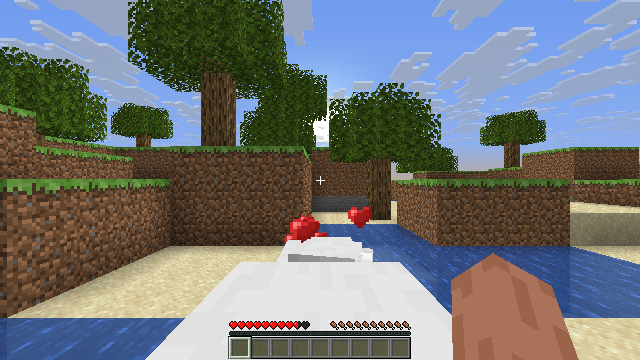
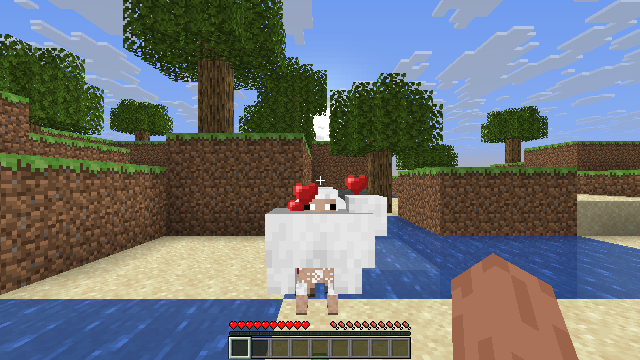
the animals' own peace — the target scan the monster kinds gate (the targetSelector the zombie's registerGoals fills the sheep's/cow's/pig's own registerGoals never fills — the NearestAttackableTargetGoal prio-2 walk the zombie_262 dump speaks, the animals' own prio walk the sheep_262 dump keeps no 

diff --git a/crates/mc-client/src/mob.rs b/crates/mc-client/src/mob.rs
@@ -398,6 +398,22 @@ impl MobKind {
         }
     }
 
+    /// THE MONSTER CHAIN'S OWN WORD (the class hierarchy the javap
+    /// dumps keep: Zombie → Monster → PathfinderMob; the animals'
+    /// own chain Sheep/Cow/Pig → Animal → AgeableMob → PathfinderMob
+    /// never reaches the Monster branch). The targetSelector the
+    /// zombie's own registerGoals fills (zombie_262.txt: getfield
+    /// targetSelector, `new NearestAttackableTargetGoal(Mob, Class, Z)`
+    /// the prio-2 walk three arms speak) the animals' registerGoals
+    /// never touches — the sheep's own prio walk the dump keeps
+    /// (0 float, 1 panic, 2 breed, 3 tempt, 4 follow, 5 eat, 6 stroll,
+    /// 7 look, 8 look-around — every addGoal the goalSelector's own
+    /// field rides) speaks no target goal at all. The scan the monster
+    /// kinds gate; the animals the goal-else chain's own peace keeps.
+    pub fn is_monster(self) -> bool {
+        matches!(self, MobKind::Zombie)
+    }
+
     /// THE VOICE TABLE (the vanilla rows the four drawn kinds speak —
     /// each the class's own `getAmbientSound` / `getHurtSound` /
     /// `getDeathSound` return: the zombie's groan, the sheep's baa,
@@ -1018,12 +1034,22 @@ impl Zombie {
         self.move_speed_modifier = 1.0;
 
         // THE TARGET SCAN (NearestAttackableTargetGoal(Player, mustSee)
-        // — the FOLLOW_RANGE 35 ring, the dead never retarget)
-        let target = player.filter(|p| !p.dead).filter(|p| {
-            let dx = p.x - self.x;
-            let dz = p.z - self.z;
-            dx * dx + dz * dz <= ZOMBIE_FOLLOW_RANGE * ZOMBIE_FOLLOW_RANGE
-        });
+        // — the FOLLOW_RANGE 35 ring, the dead never retarget). THE
+        // ANIMALS' OWN PEACE: the targetSelector the zombie's
+        // registerGoals fills the sheep's/cow's/pig's own registerGoals
+        // never fills — the scan the monster kinds gate, the animals
+        // the goal-else chain's own rest keeps (the fed sheep the
+        // in-range player no longer charges — the empty targetSelector
+        // the animal chain speaks)
+        let target = if self.kind.is_monster() {
+            player.filter(|p| !p.dead).filter(|p| {
+                let dx = p.x - self.x;
+                let dz = p.z - self.z;
+                dx * dx + dz * dz <= ZOMBIE_FOLLOW_RANGE * ZOMBIE_FOLLOW_RANGE
+            })
+        } else {
+            None
+        };
 
         if let Some(p) = target {
             // ZOMBIEATTACKGOAL (prio 3): the canUse re-check rides the
@@ -1177,13 +1203,18 @@ impl Zombie {
         }
 
         // THE BURN ROLL (Mob.aiStep's BURN_IN_DAYLIGHT branch ->
-        // burnUndead -> isSunBurnTick, the short-circuit order the
-        // bytecode speaks: the track gate, the water gate, the light
+        // shouldBurnInDay -> burnUndead -> isSunBurnTick, the
+        // short-circuit order the bytecode speaks: THE KIND'S OWN WORD
+        // first — the Mob base speaks false, the undead classes'
+        // override the true the sun's brand rides (the animals the
+        // base's own false keeps: the noon sky the sheep never
+        // brands), then the track gate, the water gate, the light
         // gate, THE DRAW, the sky gate — the helmet branch never fires
         // on this lane's bare-headed zombie, so the hit ignites):
         // igniteForSeconds(8.0) = remainingFireTicks = max(remaining,
         // 160).
-        if crate::timeline::monsters_burn(day_time)
+        if self.kind.is_monster()
+            && crate::timeline::monsters_burn(day_time)
             && !self.in_water(world)
             && self.burn_light_gate(world, day_time)
             && self.rng.next_f32() * BURN_ROLL_SCALE
@@ -3677,6 +3708,113 @@ mod tests {
             met.breed_love_time, 60,
             "the met court the gate's own count keeps"
         );
+    }
+
+    /// THE ANIMALS' OWN PEACE (the registerGoals dumps' own verdict):
+    /// the targetSelector the zombie's registerGoals fills
+    /// (NearestAttackableTargetGoal the prio-2 walk speaks) the
+    /// animals' registerGoals never fills — the scan the monster
+    /// kinds gate: the melee-ring player the sheep/cow/pig never
+    /// targets, never charges, never hits (the aggressive arms the
+    /// monster's own word keeps lowered), the zombie the same
+    /// staging the chase's own yaw answers.
+    #[test]
+    fn the_animals_own_peace_gates_the_target_scan() {
+        let world = flat_world();
+        // the is_monster table (the class chain the dumps keep)
+        assert!(MobKind::Zombie.is_monster());
+        assert!(!MobKind::Sheep.is_monster());
+        assert!(!MobKind::Cow.is_monster());
+        assert!(!MobKind::Pig.is_monster());
+
+        // the melee-ring player the monster's scan answers — the
+        // animals the same staging the peace keeps over the whole
+        // walk (no hit, no raised arms; the stroll/look rest the
+        // goal-else chain keeps, the 120-gate's own rolls ride)
+        for kind in [MobKind::Sheep, MobKind::Cow, MobKind::Pig] {
+            let mut animal = Zombie::new(1, 8.0, 5.0, 8.0, 262);
+            animal.kind = kind;
+            animal.on_ground = true;
+            let player = player_at(5.0, 5.0, 8.0); // 3 west — the chase test's own ring
+            for tick in 0..200 {
+                let ev = animal.tick(&world, Some(&player), NIGHT);
+                assert!(
+                    ev.attack.is_none(),
+                    "the {kind:?} the player never hits (tick {tick})"
+                );
+                assert!(
+                    !animal.aggressive && animal.raise_arm_ticks == 0,
+                    "the {kind:?} the monster's arms never raises (tick {tick})"
+                );
+            }
+        }
+
+        // the control: the same staging the zombie's own scan answers —
+        // the body yaw swings at the player the first tick speaks
+        let mut z = Zombie::new(1, 8.0, 5.0, 8.0, 7);
+        z.on_ground = true;
+        let player = player_at(5.0, 5.0, 8.0);
+        z.tick(&world, Some(&player), NIGHT);
+        assert!(
+            (z.yaw - 90.0).abs() < 1e-6,
+            "the zombie's scan the player targets (yaw {})",
+            z.yaw
+        );
+    }
+
+    /// THE NOON BRAND THE ANIMALS NEVER WEARS (shouldBurnInDay's own
+    /// override walk): the Mob base speaks false, the undead classes'
+    /// override the true the sun's brand rides — the sheep/cow/pig
+    /// the same noon surface the brand never lands (the kind word the
+    /// short-circuit's first gate keeps: the roll's draw never fires,
+    /// the stream the goal chain's own shape keeps). The zombie's own
+    /// brand the noon test pins beside.
+    #[test]
+    fn the_noon_brand_the_animals_never_wears() {
+        let world = wide_flat_world();
+        for kind in [MobKind::Sheep, MobKind::Cow, MobKind::Pig] {
+            let mut animal = Zombie::new(1, 32.0, 5.0, 32.0, 262);
+            animal.kind = kind;
+            animal.on_ground = true;
+            for _ in 0..600 {
+                animal.tick(&world, None, NOON);
+                assert_eq!(
+                    animal.fire_ticks, 0,
+                    "the {kind:?} the noon never brands"
+                );
+            }
+            assert_eq!(
+                animal.health, ZOMBIE_MAX_HEALTH,
+                "the {kind:?} the fire hurt never speaks"
+            );
+        }
+    }
+
+    /// THE FED SHEEP'S COURT THE PEACE KEEPS (the staging lane's own
+    /// law the kind gate speaks): the armed breed walk the in-range
+    /// player never steals — the goal-else chain the breed arm's prio
+    /// owns, the body yaw the partner's east speaks (the pre-fix scan
+    /// the player's west would have charged), the court's own clock
+    /// the loveTime++ counts, the arms the peace keeps lowered.
+    #[test]
+    fn the_fed_sheeps_court_survives_the_in_range_player() {
+        let world = wide_flat_world();
+        let mut sheep = Zombie::new(1, 8.0, 5.0, 8.0, 262);
+        sheep.kind = MobKind::Sheep;
+        sheep.in_love = 600;
+        sheep.on_ground = true;
+        sheep.breed_partner = Some((2, 13.0, 5.0, 8.0)); // 5 east
+        let player = player_at(3.0, 5.0, 8.0); // 5 west — the old scan would charge
+        let ev = sheep.tick(&world, Some(&player), NOON);
+        assert!(ev.attack.is_none(), "the peace the hit refuses");
+        assert!(
+            (sheep.yaw - (-90.0)).abs() < 1e-6,
+            "the body yaw the partner's east speaks ({})",
+            sheep.yaw
+        );
+        assert_eq!(sheep.breed_love_time, 1, "the court's clock counts");
+        assert!(sheep.x > 8.0, "the walk the partner's east speaks");
+        assert!(!sheep.aggressive, "the arms the peace keeps lowered");
     }
 
     #[test]

diff --git a/crates/mc-client/src/headless.rs b/crates/mc-client/src/headless.rs
@@ -1907,11 +1907,11 @@ pub fn render_gui_screen_opts(
         // speaks, both surfaces the body's own level — the hilltop
         // candidates the surface law refuses), the love clock the feed
         // verdict leaves (600 both) and the court clock the goal's own
-        // 60-tick walk the completed court stands in for (the feed-
-        // and-leave lane the player's away speaks — the body's own
-        // in-range lane the attack arm owns, the goal-else chain the
-        // no-target rest keeps, the staged pair the off-camera court
-        // the clock stand-in freezes). The settle ticks the caller
+        // 60-tick walk the completed court stands in for (THE
+        // ANIMALS' OWN PEACE the target scan's kind gate keeps — the
+        // in-range body the pair never charges, the goal-else chain
+        // the court's own walk answers, the completed clock the first
+        // settle tick's pairing fires). The settle ticks the caller
         // passes run the tick lane — the pairing fires on the first
         // (the courted pair the meet's own gate answers), the child
         // the spawn walk leaves, the hearts the event 18 rides, the

diff --git a/shots/README.md b/shots/README.md
@@ -424,8 +424,8 @@ lasts 20 real minutes again, the eat hold 1.6s, the swing 0.3s.
 | `wire_attack.png` | THE WIRE BODY'S OWN ATTACK (v0.3.196): the left press the wire lane ANSWERS — the 26.2's dedicated ServerboundAttackPacket the gameMode.attack dump speaks (`new ServerboundAttackPacket(target.getId())` — the record `(int entityId)` the clinit's composite loads ByteBufCodecs.VAR_INT alone, generated id 1 `minecraft:attack` the generated table keeps, the SEND the dump's own order speaks: ensure, SEND, attack, RESET), the attack site's pick now walks the SAME chain the render walks — the offline lane first, the wire's remote bodies after — and the wire arm sends the SERVER'S OWN id the Add Entity minted (the command lane the live worker echoes, the local prediction the wire body never runs — the health the server's to keep, the Hurt echo the v0.3.185 lane renders the verdict the client waits for, the RESET the resetAttackStrengthTicker step rides); the shot stages the REAL on_attack press at the "Lurker" body --net-crosshair snapped on the line, the swing clock 3 of its 6 ticks walked — the arm mid-arc crossing toward the crosshair's own zombie; the at-rest companion at the identical staging diffs rms 17.9 — 39799 bytes, the arm's own arc the only word |
 | `offline_shear.png` | THE MOB.INTERACT TABLE'S OWN FIRST ENTRY (v0.3.199): the right press the OFFLINE sheep ANSWERS — the 26.2's Sheep.mobInteract walk the dump speaks (the held stack's `is(Items.SHEARS)` gate, the `readyForShearing()` gate — `!isSheared() && !isBaby()` the wool byte's own bit arms), the Shear the shearing/sheep/<color> table rolls (uniform 1..3 the pool speaks, the lambda$0's `copyWithCount(1)` singles the drops spawn), the playSound(SHEEP_SHEAR, PLAYERS, 1.0, 1.0) the voice lane plays, the swing the SUCCESS_SERVER's SwingSource.SERVER arm starts — the sheep's wool coat gone, the pinkish undercoat body the fur layer's own gate reveals, the shears frozen mid-arc; the un-sheared companion at the identical staging diffs rms 33.1 (the coat's own absence, honest and loud) |
 | `offline_feed.png` | THE MOB.INTERACT TABLE'S OWN FOOD ARM (v0.3.201): the right press the OFFLINE sheep FEEDS — the 26.2's Animal.mobInteract walk the dump speaks (the `isFood(item)` hit — the tag tables the jar's own `tags/item/*.json` keeps verbatim: SHEEP_FOOD/COW_FOOD the wheat, PIG_FOOD the carrot/potato/beetroot, the zombie's monster chain the gate refuses; the ADULT arm `getAge() == 0 && canFallInLove()` — inLove <= 0 the gate reads), the setInLove the inLove = 600 arms (+ the loveCause + the broadcastEntityEvent(18) the HEART burst the render lane owes), the playEatingSound the override the jar keeps SILENT — the Sheep the base's own empty law speaks, the PIG the entity.pig.eat voice the only eater; the second press the in-love adult keeps — the CONSUME the fallback returns, SwingSource.NONE no swing; the wheat frozen mid-arc the swing's own word; the at-rest companion at the identical staging diffs rms 24.8 — 26997 pixels the arm's own arc + the held stack's render the press walked |
-| `breeding_walk.png` | THE BREEDING WALK'S OWN FAMILY (v0.3.206): the canMate pair the scan ANSWERS — the two in-love sheep the --breed staging arms (the same kind, both in love, the 8.0 ring the goal speaks), the pairing the tick lane's own scan walks (Animal.canMate the dump's own law), the CHILD the spawnChildFromBreeding walk leaves (the -24000 the birth arms, the snapTo at the parent's own spot, the 0.5 pose scale the render folds — the getDefaultDimensions isBaby arm the bbox halves), the parents the finalizeSpawnChildFromBreeding tail cools (setAge(6000) both, resetLove() both), the HEARTS the event 18 broadcast spawns (the burst the particle store rides), the XP orb the MOB_DROPS roll owes (nextInt(7) the zero roll honestly keeps); the at-rest companion at the identical staging diffs rms 50.8 — the family's own walk the hearts + the child + the cooled pair speak |
-| `breeding_mix.png` | THE MIX WALK'S OWN FAMILY (v0.3.210): the breed staging the RED and BLUE dyes arm (the parents' wool 14 and 11), the child the crafting recipe the PURPLE wears — DyeColor.getMixedColor the sheep_262 dump speaks (the parents' dyes the grid pairs, the recipe result the baby answers), the DYE_MIX_TABLE's own nine rows the recipe arm keeps — the purple mass the baby's coat fills the lower frame the white family's mass answered white, the blue parent mid-frame the red one's glimpse the baby's shoulder names; the at-rest companion (--breed-mix 0, the red parent at the camera pre-pair, no baby, no hearts) diffs rms 51.7 — the mix's own walk the baby + the hearts speak, the white staging the identical frames' rms 45.2 names |
+| `breeding_walk.png` | THE BREEDING WALK'S OWN FAMILY (v0.3.206): the canMate pair the scan ANSWERS — the two in-love sheep the --breed staging arms (the same kind, both in love, the 8.0 ring the goal speaks), the pairing the tick lane's own scan walks (Animal.canMate the dump's own law), the CHILD the spawnChildFromBreeding walk leaves (the -24000 the birth arms, the snapTo at the parent's own spot, the 0.5 pose scale the render folds — the getDefaultDimensions isBaby arm the bbox halves), the parents the finalizeSpawnChildFromBreeding tail cools (setAge(6000) both, resetLove() both), the HEARTS the event 18 broadcast spawns (the burst the particle store rides), the XP orb the MOB_DROPS roll owes (nextInt(7) the zero roll honestly keeps); the at-rest companion at the identical staging diffs rms 20.4 — the family's own walk the hearts + the child + the cooled pair speak (v0.3.214 regen: THE ANIMALS' OWN PEACE the target scan's kind gate keeps — the in-range body the parents no longer charge, the family stands at the facing cells the court walk owns; the old frames the charge lane filled, the parents hugging the eye the attack arm's own steal spoke) |
+| `breeding_mix.png` | THE MIX WALK'S OWN FAMILY (v0.3.210): the breed staging the RED and BLUE dyes arm (the parents' wool 14 and 11), the child the crafting recipe the PURPLE wears — DyeColor.getMixedColor the sheep_262 dump speaks (the parents' dyes the grid pairs, the recipe result the baby answers), the DYE_MIX_TABLE's own nine rows the recipe arm keeps — the purple mass the baby's coat fills the lower frame the white family's mass answered white, the blue parent mid-frame the red one's glimpse the baby's shoulder names (v0.3.214 regen: the peace gate the family frames re-walks — the parents the facing cells keep, the baby the meet's own spot holds); the at-rest companion (--breed-mix 0, the red parent at the camera pre-pair, no baby, no hearts) diffs rms 23.3 — the mix's own walk the baby + the hearts speak, the white staging the identical frames' rms 29.3 names |
 
 Regenerate the family (the flag the CLI speaks today):
 
@@ -697,9 +697,11 @@ cargo run -p mc-client --release -- --headless --screen world \
 # the jar's particle/heart.png keeps, the flat 16-tick life the 26.2
 # ctor speaks, the 32x bloom the getQuadSize clamp rides; the staging
 # walks 12 REAL updates total (6 pre-press via --settle-ticks, 6
-# post-press in the feed block) — the sheep strolls off the press
-# point, the burst hangs in the open air; the at-rest companion (no
-# --feed, the same 12 updates) diffs rms 10.5 — 3625 pixels the
+# post-press in the feed block) — the sheep the peace keeps before
+# the camera (the old charge lane walked it past the eye — the
+# v0.3.214 regen the family album's own face returns), the burst
+# hangs around it; the at-rest companion (no
+# --feed, the same 12 updates) diffs rms 8.7 — 3625 pixels the
 # hearts' own red + the swing arc the press walked
 ```
 
@@ -719,7 +721,7 @@ cargo run -p mc-client --release -- --headless --screen world \
 # scale the render folds), the parents cool (the 6000 both), the
 # event-18 hearts burst, the XP orb rolls (nextInt(7) — the zero roll
 # the honest silence keeps); the at-rest companion (--breed 0, the
-# same staging frozen pre-pair) diffs rms 50.8 — the family's own
+# same staging frozen pre-pair) diffs rms 20.4 — the family's own
 # walk the hearts + the child + the cooled pair speak
 ```
 
@@ -739,8 +741,8 @@ cargo run -p mc-client --release -- --headless --screen world \
 # answer the pixels name — the purple mass the baby's coat fills the
 # lower frame the white family's mass answered white; the at-rest
 # companion (--breed-mix 0, the red parent at the camera pre-pair, no
-# baby, no hearts) diffs rms 51.7 — the mix's own walk the baby + the
-# hearts speak, the white staging the identical frames' rms 45.2 names
+# baby, no hearts) diffs rms 23.3 — the mix's own walk the baby + the
+# hearts speak, the white staging the identical frames' rms 29.3 names
 ```
 
 The fourth body's own ring (v0.3.191 — the ovine):
